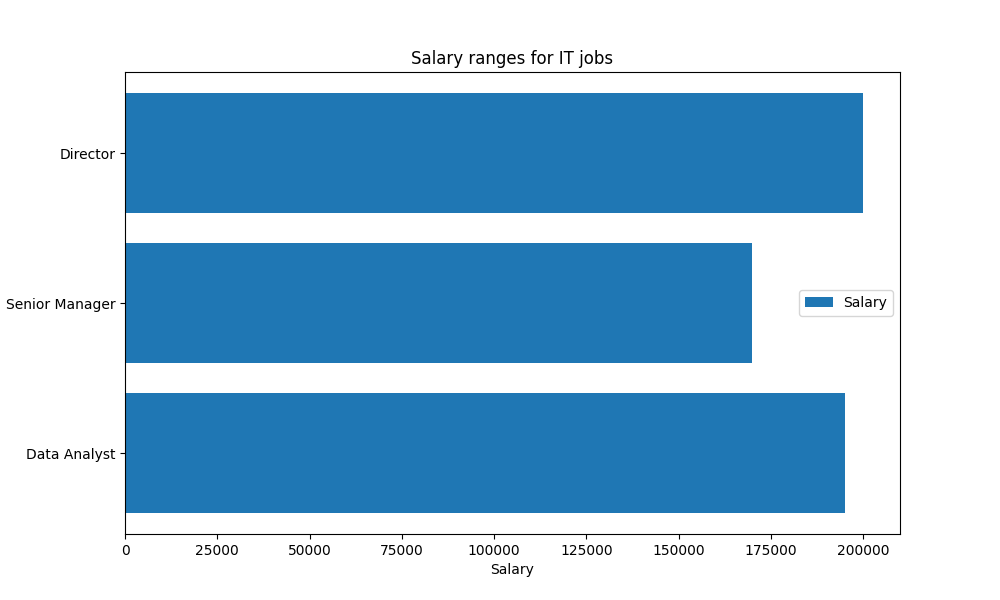
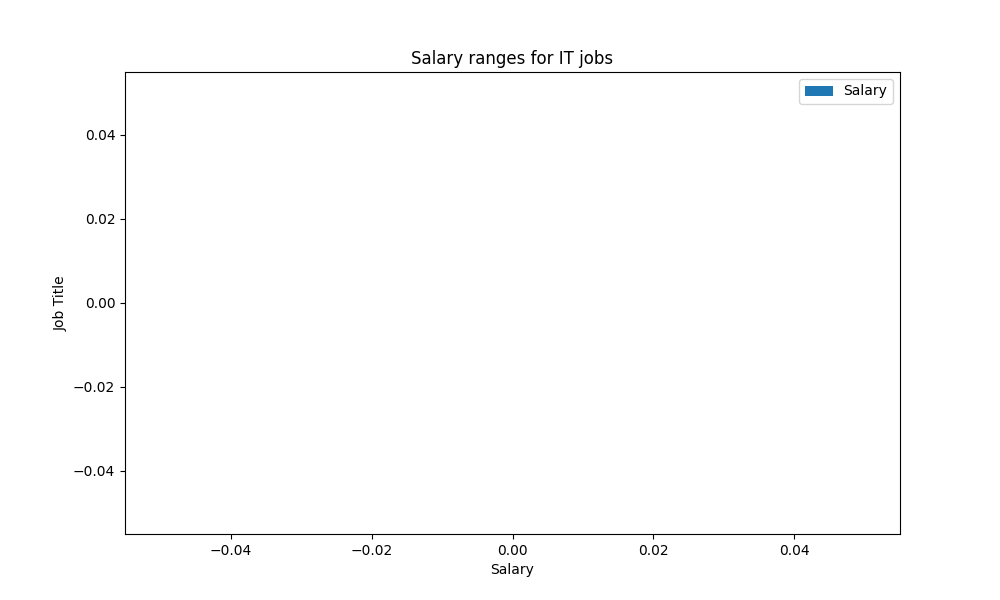
edit errors

diff --git a/streamlit/visualizations.py b/streamlit/visualizations.py
@@ -257,26 +257,6 @@ def visualizations():
     min_value = st.number_input('Min Salary', min_value=min_salary, max_value=max_salary, value=min_salary)
     max_value = st.number_input('Max Salary', min_value=min_salary, max_value=max_salary, value=max_salary)
 
-    # Assume 'initialize_salary_dataset' is a function that loads the dataset
-    itjob_salary_df = initialize_salary_dataset()
-
-    st.title("Salary ranges for IT jobs")
-    column1 = 'Job Title'
-    column2 = 'Salary'
-
-    # Convert Salary column to numeric
-    itjob_salary_df[column2] = pd.to_numeric(itjob_salary_df[column2], errors='coerce')
-
-    # Handle missing values
-    itjob_salary_df[column1].fillna('', inplace=True)
-    itjob_salary_df[column2].fillna(0, inplace=True)
-
-    # Add number inputs for filtering salary range
-    min_salary = itjob_salary_df[column2].min()
-    max_salary = itjob_salary_df[column2].max()
-    min_value = st.number_input('Min Salary', min_value=min_salary, max_value=max_salary, value=min_salary)
-    max_value = st.number_input('Max Salary', min_value=min_salary, max_value=max_salary, value=max_salary)
-
     # Filter the DataFrame based on the salary range
     filtered_df4 = itjob_salary_df[(itjob_salary_df[column2] >= min_value) & (itjob_salary_df[column2] <= max_value)]
 
@@ -289,8 +269,8 @@ def visualizations():
     # Further filter the DataFrame based on selected job titles
     filtered_df4 = filtered_df4[filtered_df4[column1].isin(selected_job_titles)]
 
-    # Display a message if no jobs match the selected criteria, else show visualization
-    plot_horizontal_graph(filtered_df4, column1, column2, 'Salary ranges for IT jobs')
+    if selected_job_titles:
+        plot_horizontal_graph(filtered_df4, column1, column2, 'Salary ranges for IT jobs')
 
     # Initialize the dataset
     indeed_df = initialize_indeed_dataset()
@@ -308,29 +288,30 @@ def visualizations():
         filtered_df5 = filtered_df5[filtered_df5[column].isin(selected_sub_skills)]
         plot_histogram(filtered_df5, column, selected_sub_skills, 'Most Commonly Required IT Competencies in the Industry')
 
-    # Initialize the dataset
-    itjob_Certificate_df = initialize_certificate_dataset
+    # Initialize the certificate dataset
+    itjob_Certificate_df = initialize_certificate_dataset()
 
-    st.title("Distribution of Certificates in the Data File")
-    if 'certification_text' in itjob_Certificate_df.columns:
-    # Count occurrences of each certificate
-        certificate_counts = itjob_Certificate_df['certification_text'].value_counts().sort_index()
+    if itjob_Certificate_df is not None:
+        st.title("Distribution of Certificates in the Data File")
 
-    # Display the top 3 most common certificates
-    top3_certificates = certificate_counts.nlargest(3)
-    st.write("**Top 3 Most Common Certificates:**")
-    for certificate, count in top3_certificates.items():
-        st.write(f"{certificate}: {count} people")
+        if 'certification_text' in itjob_Certificate_df.columns:
+            # Count occurrences of each certificate
+            certificate_counts = itjob_Certificate_df['certification_text'].value_counts().sort_index()
 
-    # Multi-select to filter certificates
-    selected_certificates = st.multiselect(
-        'Select certificates to visualize',
-        options6=certificate_counts.index.tolist(),  # Provide the list of options
-        default=[]  # Default to show none
-    )
+            # Display the top 3 most common certificates
+            top3_certificates = certificate_counts.nlargest(3)
+            st.write("**Top 3 Most Common Certificates:**")
+            for certificate, count in top3_certificates.items():
+                st.write(f"{certificate}: {count} people")
 
-    # Filter the data based on selected certificates
-    filtered_counts = certificate_counts[selected_certificates]
-    if selected_certificates:
-        filtered_counts6 = certificate_counts[selected_certificates]
-        plot_line_chart(filtered_counts6, 'Distribution of Certificates in the Data File')
+            # Multi-select to filter certificates
+            selected_certificates = st.multiselect(
+                'Select certificates to visualize',
+                options=certificate_counts.index.tolist(),  # Provide the list of options
+                default=[]  # Default to show none
+            )
+
+            # Filter the data based on selected certificates
+            if selected_certificates:
+                filtered_counts6 = certificate_counts[selected_certificates]
+                plot_line_chart(filtered_counts6, 'Distribution of Certificates in the Data File')
